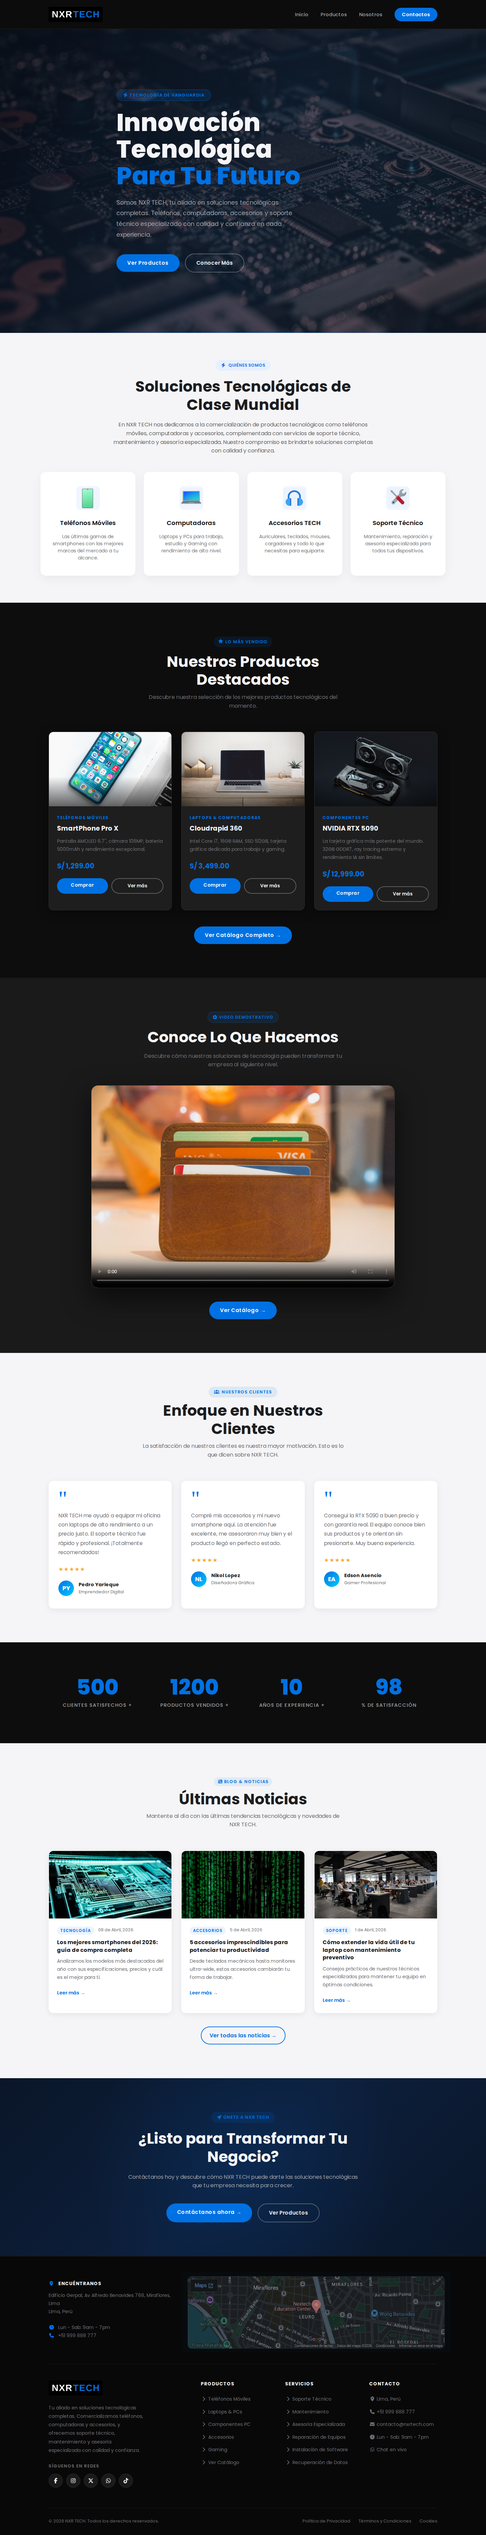
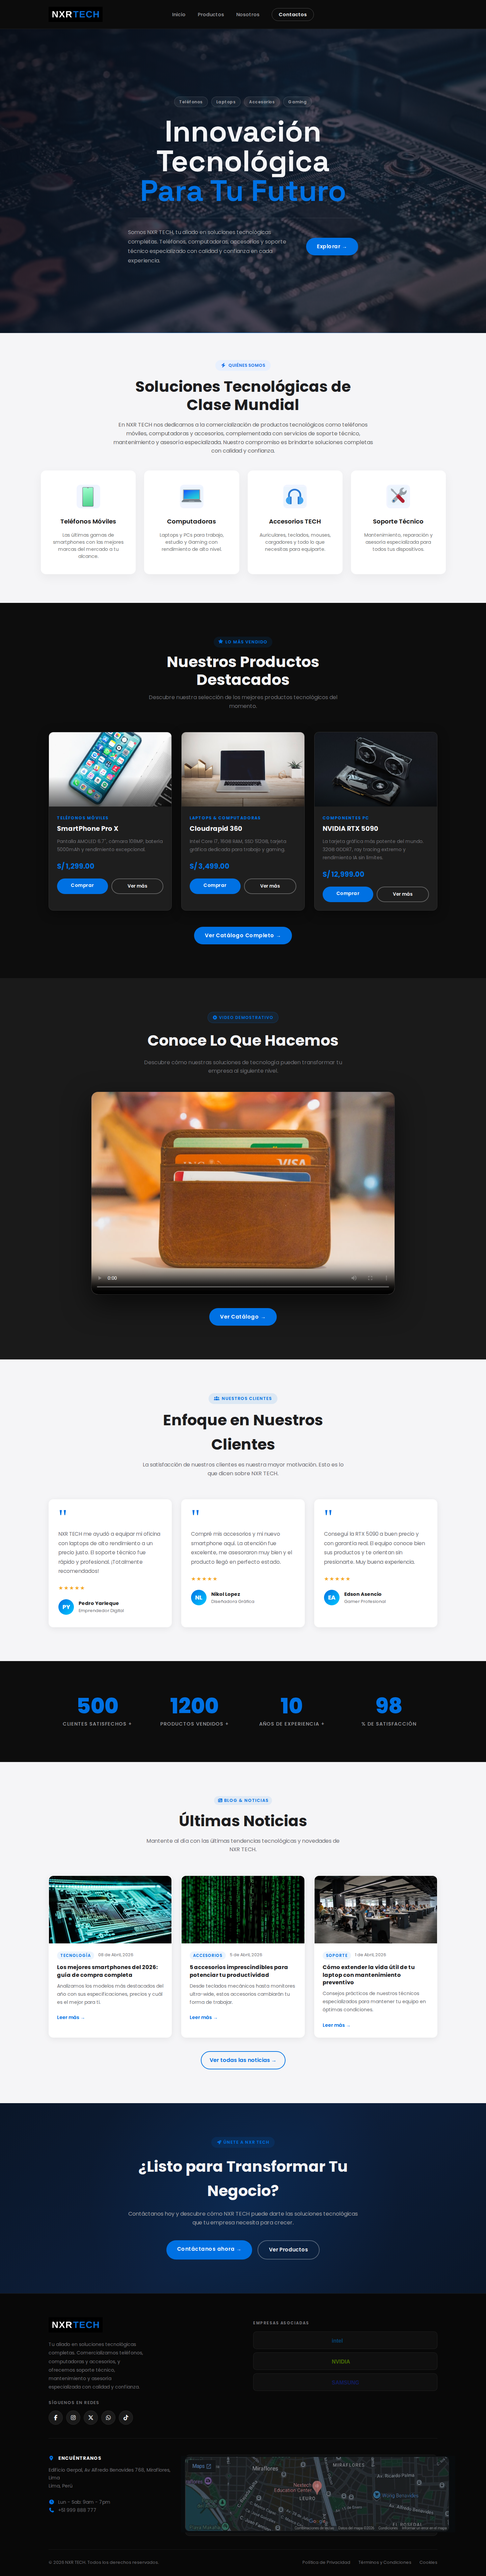
feat: cambios

diff --git a/inicio.html b/inicio.html
@@ -26,26 +26,25 @@
          RESPONSABLE: Enrique Prada
          ============================================= -->
     <header id="navbar">
-        <nav class="container">
-            <a href="#" class="nav-logo">
-                <img src="img/nxrtech_logo.png" alt="NXR TECH" class="nav-logo-img">
-            </a>
-            <ul class="nav-links">
-                <li><a href="#ep-hero">Inicio</a></li>
-                <li><a href="#">Productos</a></li>
-                <li><a href="#">Nosotros</a></li>
-                <li><a href="#" class="nav-cta">Contactos</a></li>
-            </ul>
-            <button class="nav-hamburger" aria-label="Menú">
-                <span></span>
-                <span></span>
-                <span></span>
-            </button>
-        </nav>
-    </header>
-
-    <main>
-        <!-- =============================================
+        <div class="ep-navbar-bar">
+            <nav class="container">
+                <a href="#" class="nav-logo">
+                    <img src="img/nxrtech_logo.png" alt="NXR TECH" class="nav-logo-img">
+                </a>
+                <ul class="nav-links">
+                    <li><a href="#ep-hero">Inicio</a></li>
+                    <li><a href="#">Productos</a></li>
+                    <li><a href="#">Nosotros</a></li>
+                    <li><a href="#" class="nav-cta">Contactos</a></li>
+                </ul>
+                <button class="nav-hamburger" aria-label="Menú">
+                    <span></span>
+                    <span></span>
+                    <span></span>
+                </button>
+            </nav>
+        </div>
+    <!-- =============================================
              SECCIÓN: HERO
              RESPONSABLE: Enrique Prada
              ============================================= -->
@@ -73,6 +72,9 @@
             </div>
         </section>
 
+    </header>
+
+    <main>
         <!-- =============================================
              SECCIÓN: SOLUCIONES TECNOLÓGICAS
              RESPONSABLE: Maykol Calle

diff --git a/css/main.css b/css/main.css
@@ -49,7 +49,7 @@
 }
 
 /* NAVBAR */
-header {
+.ep-navbar-bar {
     position: fixed;
     top: 0;
     left: 0;
@@ -60,7 +60,7 @@ header {
     background-color: transparent;
 }
 
-header.scrolled {
+header.scrolled .ep-navbar-bar {
     background-color: rgba(13, 13, 13, 0.92);
     backdrop-filter: blur(20px);
     -webkit-backdrop-filter: blur(20px);
@@ -72,7 +72,6 @@ nav {
     display: flex;
     align-items: center;
     justify-content: space-between;
-    position: relative;
 }
 
 .nav-logo {

diff --git a/css/base.css b/css/base.css
@@ -1,6 +1,5 @@
 /* ============================================================
    base.css — NXR TECH
-   ARCHIVO BASE — NO MODIFICAR
    Solo contiene variables globales y reset.
    ============================================================ */
 
